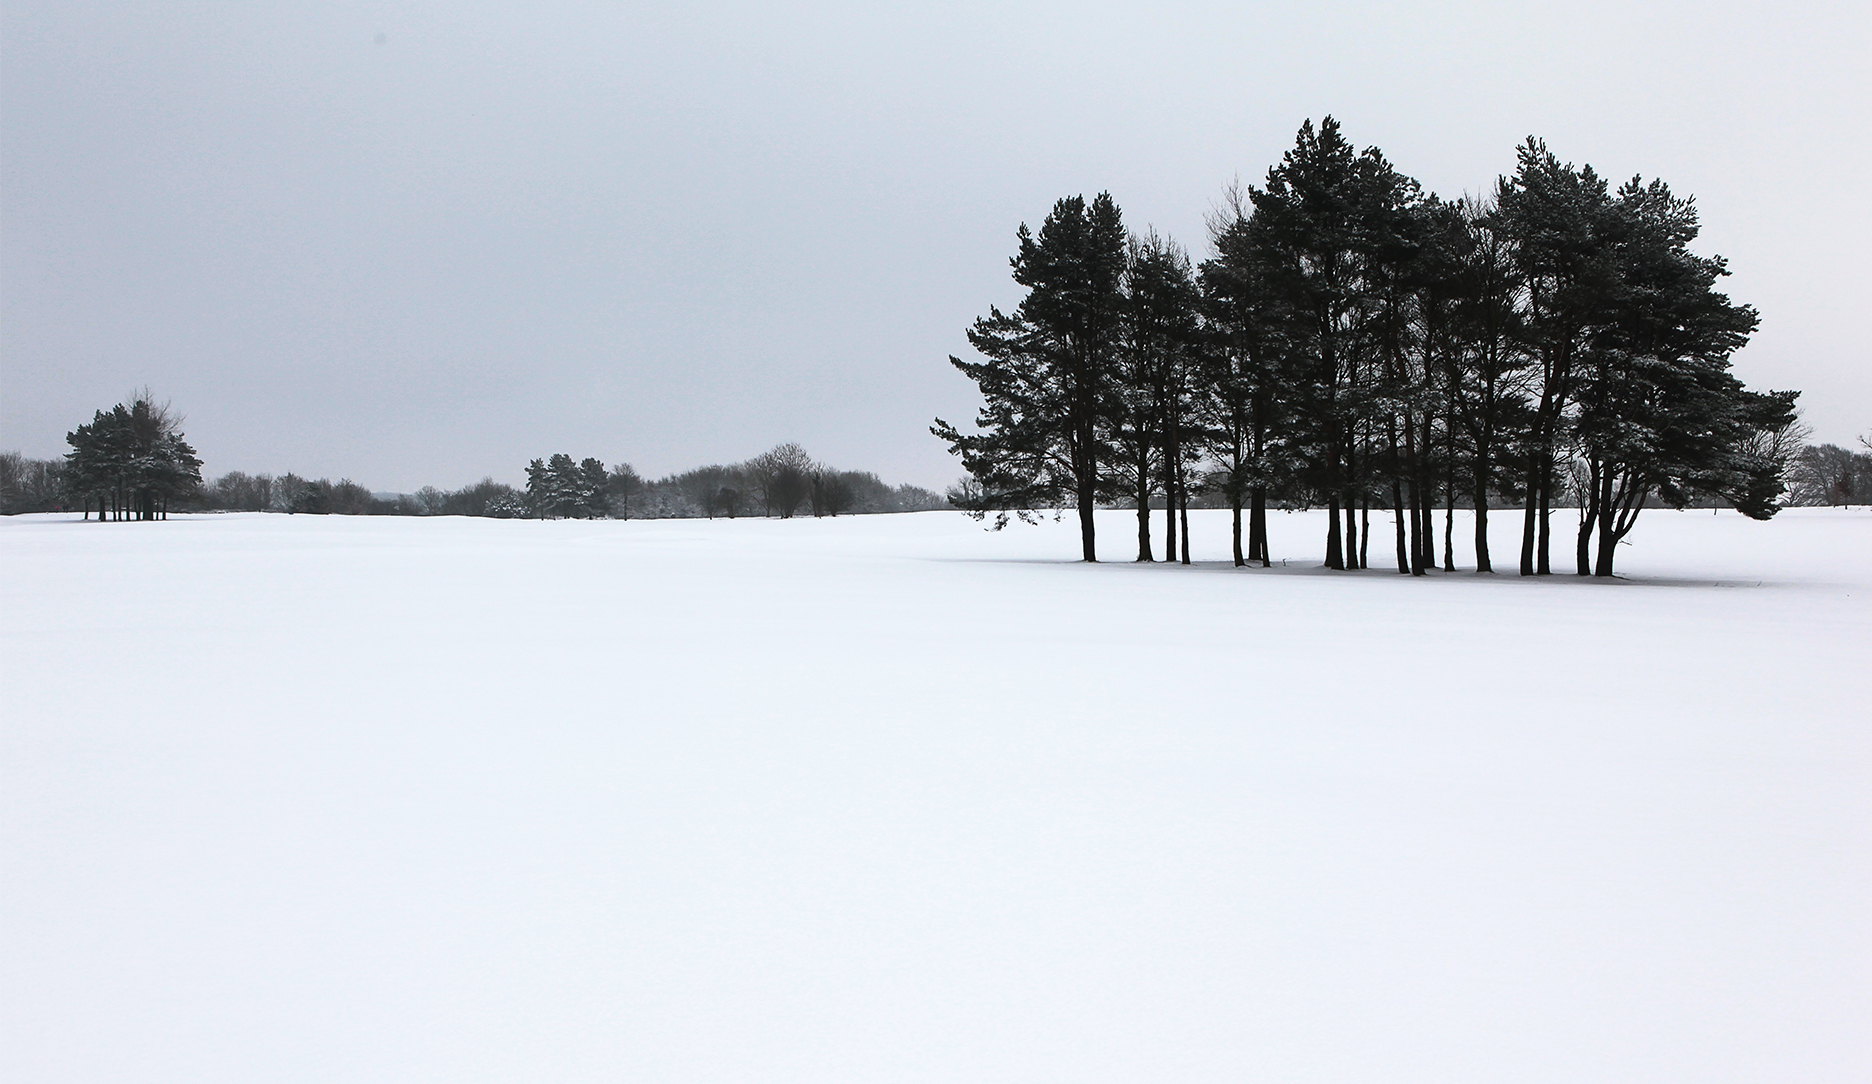
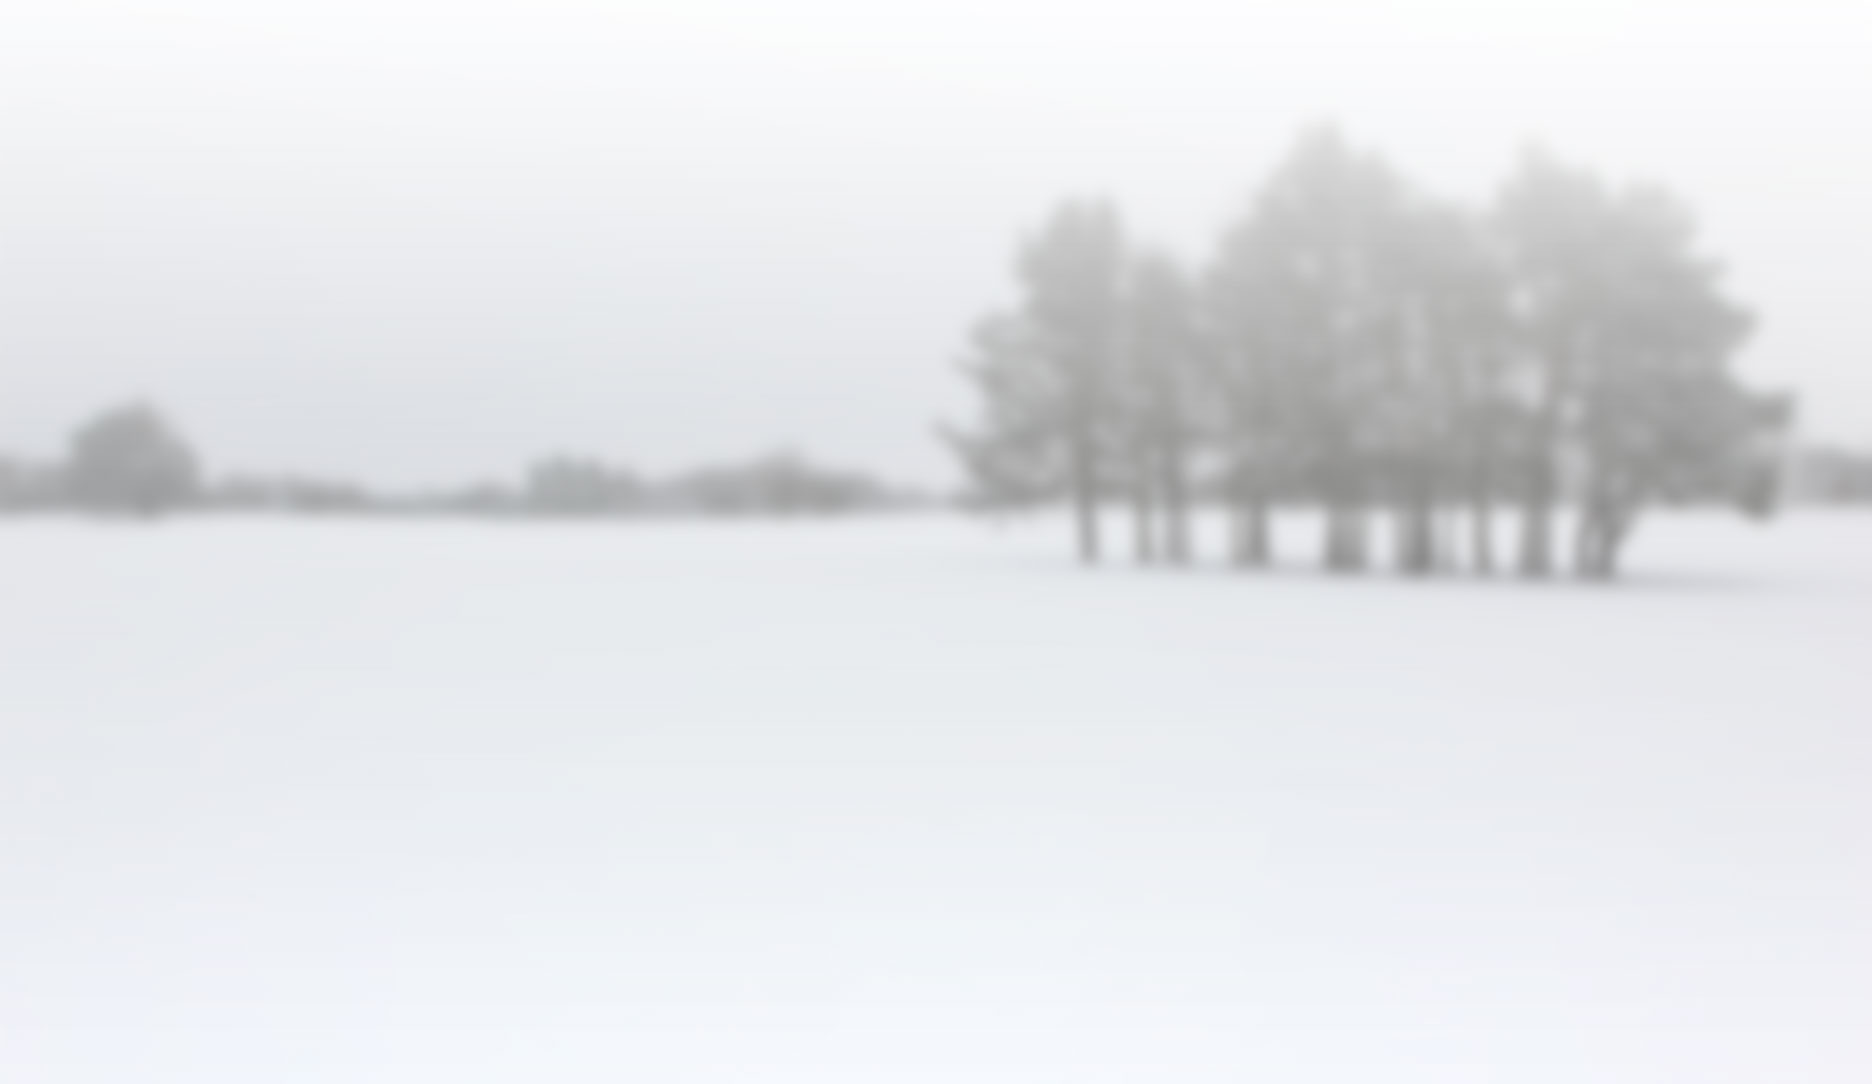
updated links

diff --git a/index.html b/index.html
@@ -4,8 +4,8 @@
 <head>
     <meta charset="utf-8">
     <meta http-equiv="X-UA-Compatible" content="IE=edge">
-    <title>wearther</title>
-    <meta name="description" content="">
+    <title>wearther - Weather forecast app that styles you rain or shine</title>
+    <meta name="description" content="Weather forecast that quickly helps you to decide the best clothing combination to wear for the given temperature. Works with various mobile devices. Best what to wear weather forecasting application. Forecast is powered by forecast.io">
     <meta name="viewport" content="width=device-width, initial-scale=1.0">
 
     <!-- pinterest domain verification -->
@@ -197,27 +197,33 @@
     <section class="wrap contact container text-center" id="team">
         <div class="row">
             <div class="col-sm-4">
-                <div class="image-container">
-                    <img src="img/team/ronald.jpg" class="img-circle">
-                </div>
-                <h1 class="name"><a href="http://ronaldsuwandi.com/">Ronald Suwandi</a>
-                </h1>
+                <a href="http://ronaldsuwandi.com/">
+                    <div class="image-container">
+                        <img src="img/team/ronald.jpg" class="img-circle">
+                    </div>
+                    <h1 class="name">Ronald Suwandi</h1>
+                </a>
+                <br>
                 Founder &amp; Developer
             </div>
             <div class="col-sm-4">
-                <div class="image-container">
-                    <img src="img/team/stephanie.jpg" class="img-circle">
-                </div>
-                <h1 class="name"><a href="http://stephanielee.cc/">Stephanie Lee</a>
-                </h1>
+                <a href="http://stephanielee.cc/">
+                    <div class="image-container">
+                        <img src="img/team/stephanie.jpg" class="img-circle">
+                    </div>
+                    <h1 class="name">Stephanie Lee</h1>
+                </a>
+                <br>
                 UI/UX Designer &amp; Marketing Specialist
             </div>
             <div class="col-sm-4">
-                <div class="image-container">
-                    <img src="img/team/enrico.jpg" class="img-circle">
-                </div>
-                <h1 class="name"><a href="http://esusatyo.net/">Enrico Susatyo</a>
-                </h1>
+                <a href="http://esusatyo.net/">
+                    <div class="image-container">
+                        <img src="img/team/enrico.jpg" class="img-circle">
+                    </div>
+                    <h1 class="name">Enrico Susatyo</h1>
+                </a>
+                <br>
                 iOS Nerd
             </div>
         </div>

diff --git a/css/main.css b/css/main.css
@@ -3976,7 +3976,7 @@ abbr[title] {
   width: 100%;
 }
 .header-container {
-  background-image: url('../img/backgrounds/winter-blur.jpg');
+  background-image: url('../img/backgrounds/winter.jpg');
   background-size: cover;
   background-repeat: no-repeat;
 }
@@ -4160,6 +4160,7 @@ abbr[title] {
 }
 .contact a {
   color: #fb3e09;
+  display: inline-block;
 }
 .contact a:hover {
   color: #fb5222;

diff --git a/less/main.less b/less/main.less
@@ -57,7 +57,7 @@ abbr[title] {
 }
 
 .header-container {
-  background-image: url('../img/backgrounds/winter-blur.jpg');
+  background-image: url('../img/backgrounds/winter.jpg');
   background-size: cover;
   background-repeat: no-repeat;
 }
@@ -245,6 +245,7 @@ abbr[title] {
 
   a {
     color: @linkColor;
+    display: inline-block;
     &:hover {
       color: lighten(@linkColor, 5%);
     }
